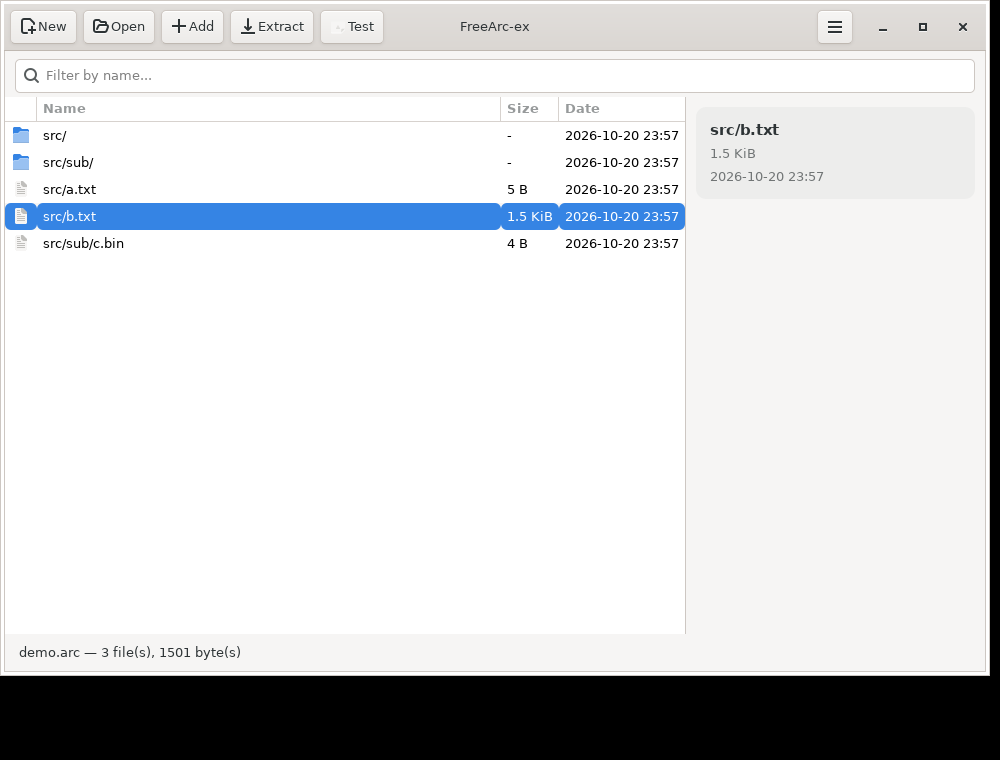
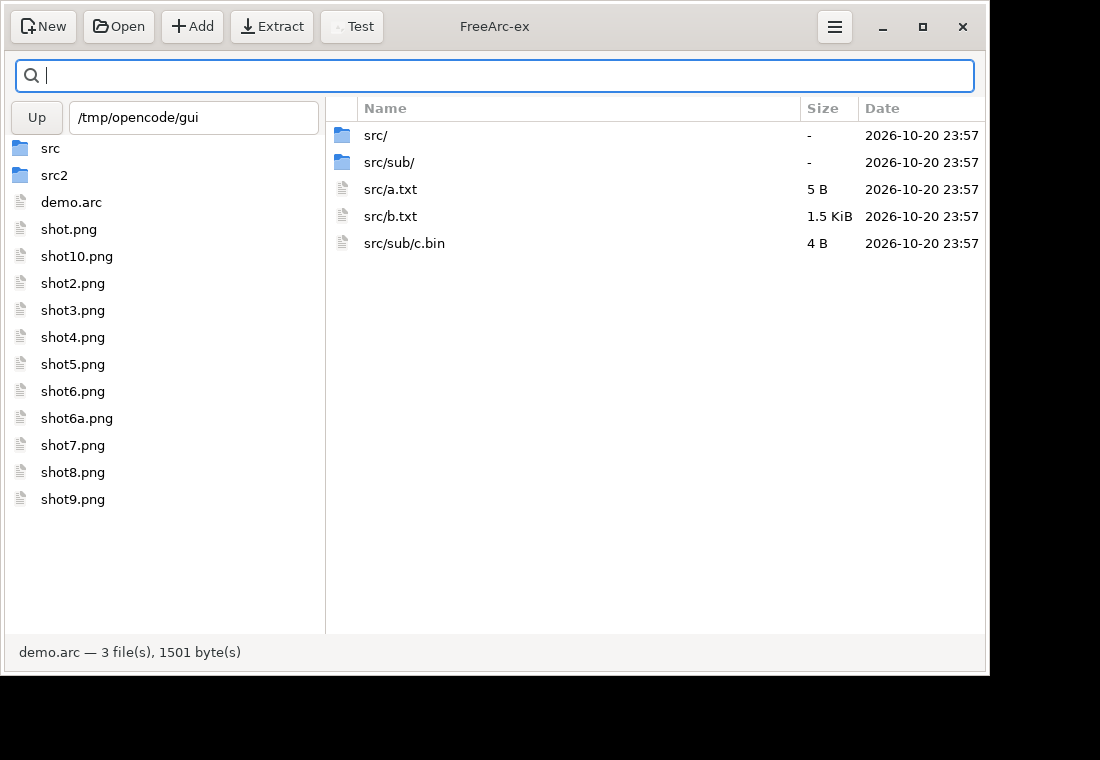
M5: dual-pane file manager with drag and drop
- Left pane: disk browser with a path entry, Up button and directory listing
  (folders first, icons); double click navigates. It is a drag source
  (text/uri-list) for the selection.
- Right pane: the archive listing, now a drop target: dropping files or folders
  adds them to the open archive through the same update path as the CLI.
- Search filter and status bar stay; the standalone details card was replaced by
  the second pane.
- Screenshot refreshed.

diff --git a/src/gui/main.cpp b/src/gui/main.cpp
@@ -38,6 +38,22 @@ public:
     Gtk::TreeModelColumn<std::string> name;
 };
 
+class DiskColumns : public Gtk::TreeModel::ColumnRecord {
+public:
+    DiskColumns()
+    {
+        add(icon);
+        add(directory);
+        add(name);
+        add(path);
+    }
+
+    Gtk::TreeModelColumn<Glib::RefPtr<Gdk::Pixbuf>> icon;
+    Gtk::TreeModelColumn<bool> directory;
+    Gtk::TreeModelColumn<std::string> name;
+    Gtk::TreeModelColumn<std::string> path;
+};
+
 std::string format_size(std::uint64_t bytes)
 {
     if (bytes >= 1024ull * 1024 * 1024) {
@@ -95,6 +111,9 @@ private:
     void set_details(const Glib::ustring& name, const Glib::ustring& size,
                      const Glib::ustring& date);
     void clear_details();
+    void refresh_disk();
+    void navigate_disk(const std::string& dir);
+    void add_paths(const std::vector<std::string>& paths);
 
     void run_operation(const std::string& title,
                        const std::function<bool(const fa::ProgressFn&, std::string&)>& operation);
@@ -121,6 +140,18 @@ private:
     Gtk::Label details_title_;
     Gtk::Label details_size_;
     Gtk::Label details_date_;
+
+    // Disk pane (left): browse a folder; drag a selection onto the archive to
+    // add it.
+    Gtk::Box disk_box_{Gtk::ORIENTATION_VERTICAL};
+    Gtk::Box disk_toolbar_{Gtk::ORIENTATION_HORIZONTAL};
+    Gtk::Button disk_up_{"Up"};
+    Gtk::Entry disk_path_;
+    Gtk::ScrolledWindow disk_scroll_;
+    Gtk::TreeView disk_view_;
+    DiskColumns disk_columns_;
+    Glib::RefPtr<Gtk::ListStore> disk_model_;
+    std::string disk_dir_;
 
     Gtk::Statusbar status_;
 
@@ -285,9 +316,78 @@ void MainWindow::build_ui()
     details_.pack_start(*card, Gtk::PACK_SHRINK);
     details_.pack_start(*Gtk::manage(new Gtk::Label()), Gtk::PACK_EXPAND_WIDGET);
 
-    paned_.pack1(scroll_, true, true);
-    paned_.pack2(details_, false, false);
-    paned_.set_position(680);
+    // Disk pane: browse a folder and drag it onto the archive.
+    disk_toolbar_.set_spacing(6);
+    disk_toolbar_.set_margin_top(4);
+    disk_toolbar_.set_margin_start(6);
+    disk_toolbar_.set_margin_end(6);
+    disk_path_.set_hexpand(true);
+    disk_path_.set_placeholder_text("Folder to browse");
+    disk_toolbar_.pack_start(disk_up_, Gtk::PACK_SHRINK);
+    disk_toolbar_.pack_start(disk_path_, Gtk::PACK_EXPAND_WIDGET);
+
+    disk_model_ = Gtk::ListStore::create(disk_columns_);
+    disk_view_.set_model(disk_model_);
+    disk_view_.set_headers_visible(false);
+    disk_view_.append_column("", disk_columns_.icon);
+    disk_view_.append_column("Name", disk_columns_.name);
+    disk_view_.get_column(0)->set_fixed_width(30);
+    disk_view_.get_column(1)->set_expand(true);
+    disk_view_.get_selection()->set_mode(Gtk::SELECTION_MULTIPLE);
+    disk_view_.signal_row_activated().connect([this](const Gtk::TreeModel::Path& path,
+                                                     Gtk::TreeViewColumn*) {
+        auto row = *disk_model_->get_iter(path);
+        if (!row[disk_columns_.directory]) return;
+        navigate_disk(row[disk_columns_.path]);
+    });
+    disk_view_.enable_model_drag_source();
+    std::vector<Gtk::TargetEntry> targets;
+    targets.push_back(Gtk::TargetEntry("text/uri-list"));
+    disk_view_.drag_source_set(targets, Gdk::MODIFIER_MASK, Gdk::ACTION_COPY);
+    disk_view_.signal_drag_data_get().connect(
+        [this](const Glib::RefPtr<Gdk::DragContext>&, Gtk::SelectionData& data, guint, guint) {
+            std::string uris;
+            for (const auto& path : disk_view_.get_selection()->get_selected_rows()) {
+                auto row = *disk_model_->get_iter(path);
+                if (!uris.empty()) uris += "\r\n";
+                uris += Glib::filename_to_uri(row[disk_columns_.path]);
+            }
+            data.set_uris(std::vector<Glib::ustring>{uris});
+        });
+    disk_up_.signal_clicked().connect([this]() {
+        navigate_disk(std::filesystem::path(disk_dir_).parent_path().string());
+    });
+    disk_path_.signal_activate().connect([this]() { navigate_disk(disk_path_.get_text()); });
+
+    disk_scroll_.add(disk_view_);
+    disk_scroll_.set_policy(Gtk::POLICY_AUTOMATIC, Gtk::POLICY_AUTOMATIC);
+    disk_scroll_.set_vexpand(true);
+    disk_box_.pack_start(disk_toolbar_, Gtk::PACK_SHRINK);
+    disk_box_.pack_start(disk_scroll_, Gtk::PACK_EXPAND_WIDGET);
+
+    paned_.pack1(disk_box_, true, true);
+    paned_.pack2(scroll_, true, true);
+    paned_.set_position(320);
+
+    // Dropping files/folders on the archive pane adds them to the open archive.
+    view_.drag_dest_set(targets, Gtk::DEST_DEFAULT_ALL, Gdk::ACTION_COPY);
+    view_.signal_drag_data_received().connect(
+        [this](const Glib::RefPtr<Gdk::DragContext>& context, int, int,
+               const Gtk::SelectionData& data, guint, guint time) {
+            std::vector<std::string> paths;
+            for (const auto& uri : data.get_uris()) {
+                const std::string path = Glib::filename_from_uri(uri);
+                if (!path.empty()) paths.push_back(path);
+            }
+            if (paths.empty() || archive_path_.empty()) {
+                context->drag_finish(false, false, time);
+                return;
+            }
+            add_paths(paths);
+            context->drag_finish(true, false, time);
+        });
+
+    navigate_disk(Glib::get_current_dir());
 
     box_.pack_start(search_, Gtk::PACK_SHRINK);
     box_.pack_start(paned_, Gtk::PACK_EXPAND_WIDGET);
@@ -296,6 +396,64 @@ void MainWindow::build_ui()
 
     clear_details();
     show_all_children();
+}
+
+void MainWindow::navigate_disk(const std::string& dir)
+{
+    std::error_code ec;
+    if (!std::filesystem::is_directory(dir, ec)) return;
+    disk_dir_ = std::filesystem::absolute(dir).lexically_normal().string();
+    disk_path_.set_text(disk_dir_);
+
+    disk_model_->clear();
+    std::vector<std::filesystem::directory_entry> entries;
+    for (const auto& entry : std::filesystem::directory_iterator(disk_dir_, ec)) {
+        entries.push_back(entry);
+    }
+    std::sort(entries.begin(), entries.end(), [](const auto& a, const auto& b) {
+        const bool a_dir = a.is_directory();
+        const bool b_dir = b.is_directory();
+        if (a_dir != b_dir) return a_dir;
+        return a.path().filename().string() < b.path().filename().string();
+    });
+    for (const auto& entry : entries) {
+        auto row = *disk_model_->append();
+        const bool is_dir = entry.is_directory(ec);
+        row[disk_columns_.name] = entry.path().filename().string();
+        row[disk_columns_.directory] = is_dir;
+        row[disk_columns_.path] = entry.path().string();
+        row[disk_columns_.icon] =
+            Gtk::IconTheme::get_default()->load_icon(is_dir ? "folder" : "text-x-generic", 16);
+    }
+}
+
+void MainWindow::refresh_disk()
+{
+    if (!disk_dir_.empty()) navigate_disk(disk_dir_);
+}
+
+void MainWindow::add_paths(const std::vector<std::string>& paths)
+{
+    if (archive_path_.empty()) {
+        Gtk::MessageDialog dialog(*this, "Open or create an archive first", false,
+                                  Gtk::MESSAGE_INFO);
+        dialog.run();
+        return;
+    }
+    run_operation("Add to archive",
+                  [this, paths](const fa::ProgressFn& progress, std::string& error) {
+                      fa::AddOptions add;
+                      add.method = "lzma";
+                      add.progress = progress;
+                      std::vector<std::filesystem::path> inputs;
+                      for (const auto& path : paths) inputs.emplace_back(path);
+                      if (!fa::update_archive(archive_path_, inputs, fa::UpdateMode::Update, add,
+                                              error)) {
+                          return false;
+                      }
+                      open(archive_path_);
+                      return true;
+                  });
 }
 
 void MainWindow::set_details(const Glib::ustring& name, const Glib::ustring& size,

diff --git a/docs/PLAN.md b/docs/PLAN.md
@@ -21,7 +21,7 @@ Base decisions (ADR [0001](adr/0001-language-and-toolkit.md)):
 | **M2** | Full engine: `a/u/f/d`, solid blocks and `-s`, filters, AES encryption, `-rr`, `arc.ini`, Lua hooks, complete CLI | Order, update and write matrices against `arc.exe`; update fuzzing with no divergence | 🚧 codecs, presets, `-s` solid blocks, `u/f/d` with block reuse and data and header encryption (`-p`/`-hp`) and the recovery record (`-rr` write and `r` repair) done; masks/overwrite/-dm/-ap/-ad/-ae/-ep/-ma/exit codes done, `arc.ini` methods + Lua event hooks done, update layout matches the original; the GUI is what remains |
 | **M3** | All five targets | Real testing in the `win7`, `win10` and `arm64` VMs | |
 | **M4** | Updated libraries and codecs | Modern LZMA SDK, LZ4 1.10 (CVE-2014-4611), LibTomCrypt 1.18.2, CRC/AES without x86 asm | |
-| **M5** | GTK3 GUI | Feature parity with the 0.67 GUI on Linux and Windows | 🚧 modern layout: header bar with icon buttons, search filter, sortable multi-select listing with icons, details panel, create, update, test and extract (destination, overwrite policy, selected files only), all with progress and cancel; 1:1 file manager and dialog automation pending |
+| **M5** | GTK3 GUI | Feature parity with the 0.67 GUI on Linux and Windows | 🚧 dual-pane file manager: disk browser (navigation + drag source) and archive listing (drop target), header bar with icon buttons, search filter, sortable multi-select listing, create, update, test and extract (destination, overwrite policy, selected files only), all with progress and cancel; 1:1 file manager and dialog automation pending |
 | **M6** | SFX, `unarc.dll`, Explorer extension, packaging (installer with Inno Setup 7.1.0, see [INSTALLER.md](INSTALLER.md)) | Clean install and smoke test in all three VMs | |
 
 ## Working rules

diff --git a/docs/COMPAT.md b/docs/COMPAT.md
@@ -12,7 +12,7 @@
 | Explorer | COM context menu (x86 and x64) and file associations, Windows only |
 | Containers | reading `.7z`/`.zip`/`.rar` (writing `.zip` if agreed) |
 | Platforms | Linux x86_64/i686/aarch64; Windows x86_64/i686 with Windows 7 SP1 as the minimum |
-| GUI | GTK3 via gtkmm 3.24, optional build (`FA_BUILD_GUI`): modern GTK3 layout (header bar, search, details), opens archives, lists them, tests and extracts (destination, overwrite policy, selected files only) and creates or updates archives (folder + preset + optional password), all with progress and cancel |
+| GUI | GTK3 via gtkmm 3.24, optional build (`FA_BUILD_GUI`): dual-pane GTK3 file manager (disk browser + archive, drag & drop to add), opens archives, lists them, tests and extracts (destination, overwrite policy, selected files only) and creates or updates archives (folder + preset + optional password), all with progress and cancel |
 
 ## How it is verified: the oracle
 
